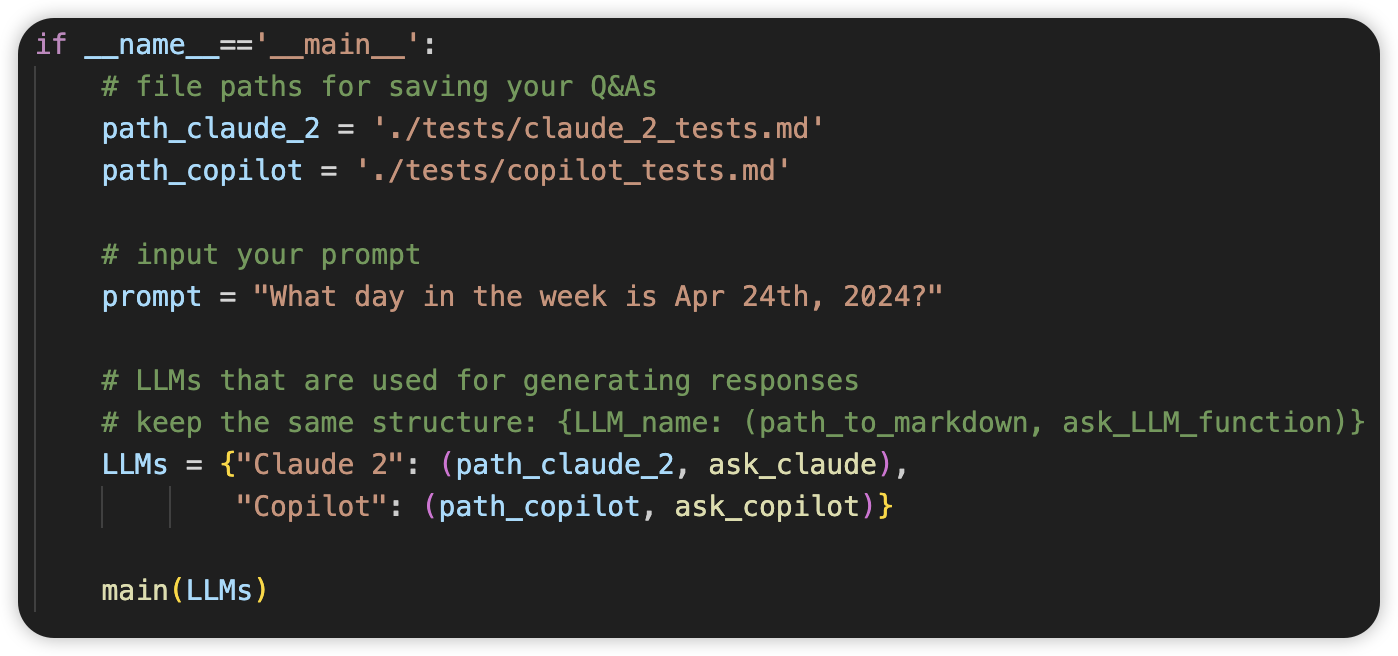
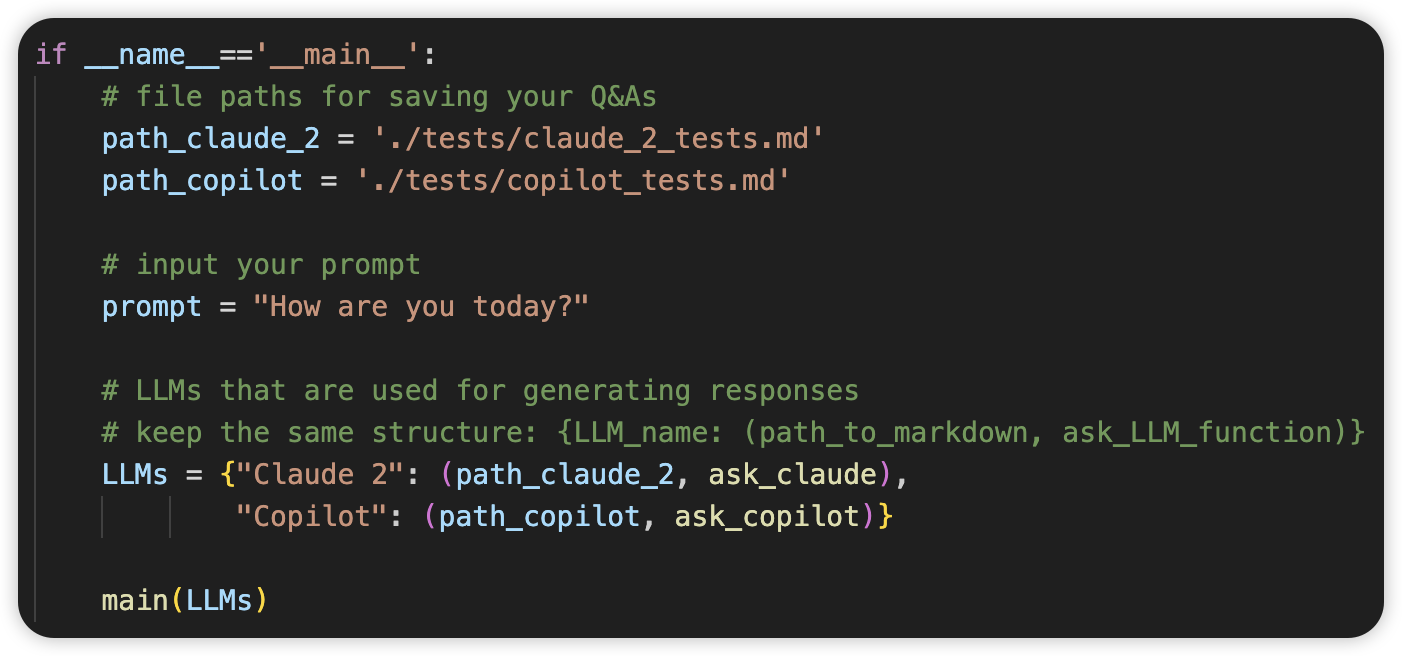
Update README.md

diff --git a/main.py b/main.py
@@ -16,7 +16,7 @@ if __name__=='__main__':
     path_copilot = './tests/copilot_tests.md'
     
     # input your prompt
-    prompt = "What day in the week is Apr 24th, 2024?"
+    prompt = "How are you today?"
     
     # LLMs that are used for generating responses
     # keep the same structure: {LLM_name: (path_to_markdown, ask_LLM_function)}

diff --git a/README.md b/README.md
@@ -50,14 +50,22 @@ Multiple LLMs, free to use, all at once.
 
 ## Example
 
-1. In `main.py`, customise your local Markdown paths for saving Q&As. For example:
+1. Clone the repository from URL or using SSH key:
+``` bash
+git clone https://github.com/southern-cross-ai/ask-llms.git
+```
+``` bash
+git clone git@github.com:southern-cross-ai/ask-llms.git
+```
+   
+2. In `main.py`, customise your local Markdown paths for saving Q&As. For example:
 
 ``` python
-path_claude = '/example_path/for/qa_claude.md'
-path_copilot = '/example_path/for/qa_copilot.md'
+path_claude_2 = '/example/path/for/claude_2.md'
+path_copilot = '/example/path/for/copilot.md'
 ```
 
-2. Input your prompt that will be sent to multiple LLMs. For example:
+3. Input your prompt that will be sent to multiple LLMs. For example:
 	
 ``` Python
 prompt = "How are you today?"
@@ -67,9 +75,9 @@ Your code now should look like this:
 
 ![example](./pics/example.png)
 
-3. Run `main.py`.
+4. Run `main.py`.
 
-4. Responses from LLMs will be shown in your terminal. Q&As will be saved at the local paths. For example:
+5. Responses from LLMs will be shown in your terminal, and will be saved at the local paths. For example:
 
 ![result_example](./pics/result_example.png)
 
